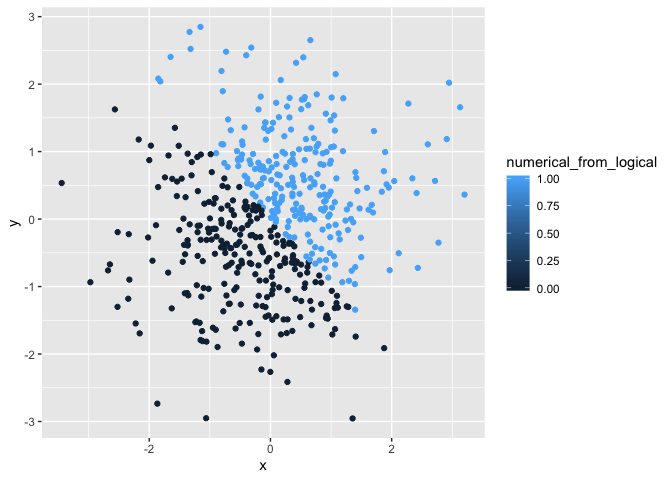
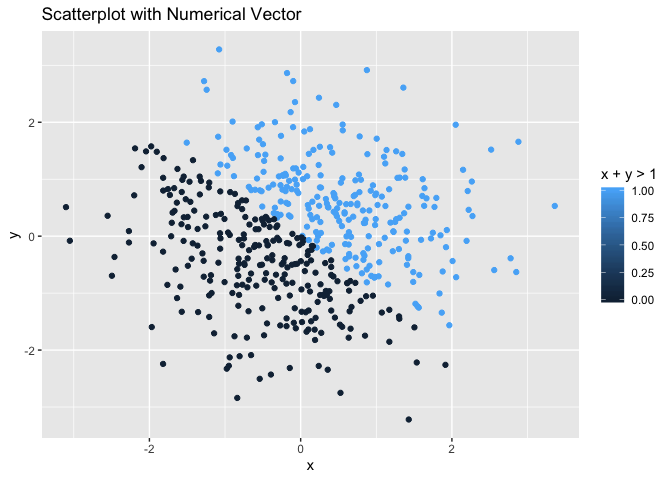
Added titles and legend titles to graphs

diff --git a/p8105_hw1_crf2147.md b/p8105_hw1_crf2147.md
@@ -36,7 +36,7 @@ data_frame_p1 = tibble(
 mean(pull(data_frame_p1, normal_sample))
 ```
 
-    ## [1] 0.2260761
+    ## [1] -0.1346382
 
 ``` r
 #mean of logical vector
@@ -98,8 +98,8 @@ as.numeric(pull(data_frame_p1, (normal_sample_positive))) *
   pull(data_frame_p1, (normal_sample))
 ```
 
-    ## [1] 0.0000000 1.1105844 1.1637735 0.0000000 0.0000000 0.5472452 0.0000000
-    ## [8] 0.3402442
+    ## [1] 0.9990630 0.0000000 0.0000000 0.0000000 0.3692615 0.0000000 0.3125544
+    ## [8] 2.1594690
 
 ``` r
 #logical vector to factor, then multipled
@@ -118,8 +118,8 @@ as.numeric(factor(pull(data_frame_p1, (normal_sample_positive)))) *
   pull(data_frame_p1, (normal_sample))
 ```
 
-    ## [1] -0.3442304  2.2211687  2.3275469 -0.5168023 -0.2375860  1.0944904
-    ## [7] -0.2546194  0.6804883
+    ## [1]  1.9981261 -1.7659863 -0.5182822 -0.4014881  0.7385230 -2.2316973
+    ## [7]  0.6251088  4.3189380
 
 \#Problem 2
 
@@ -136,12 +136,15 @@ data_frame_p2 = tibble(
 
 The size of the data set is 500 by 5.
 
-For variable `x` the mean is -0.0019934, median is 0.0204366, and
-standard deviation is 1.0160278. `x + y > 1` is true for 49.4% of cases.
+For variable `x` the mean is 0.0011368, median is 0.0090375, and
+standard deviation is 1.049015. `x + y > 1` is true for 49.4% of cases.
 
 ``` r
 #scatterplot of x vs y with logical vector colored
-ggplot(data_frame_p2, aes(x = x, y = y, color= logical_vector)) + geom_point()
+ggplot(data_frame_p2, aes(x = x, y = y, color= logical_vector)) + 
+  geom_point() +
+  ggtitle("Scatterplot with Logical Vector") +
+  labs(color= "x + y > 1")
 ```
 
 ![](p8105_hw1_crf2147_files/figure-gfm/unnamed-chunk-6-1.png)<!-- -->
@@ -155,14 +158,20 @@ ggsave("p8105_hw1_plot.pdf")
 
 ``` r
 #scatterplot of x vs y with numerical vector colored
-ggplot(data_frame_p2, aes(x = x, y = y, color= numerical_from_logical)) + geom_point()
+ggplot(data_frame_p2, aes(x = x, y = y, color= numerical_from_logical)) +
+  geom_point() + 
+  ggtitle("Scatterplot with Numerical Vector") +
+  labs(color= "x + y > 1")
 ```
 
 ![](p8105_hw1_crf2147_files/figure-gfm/unnamed-chunk-6-2.png)<!-- -->
 
 ``` r
 #scatterplot of x vs y with factor vector colored
-ggplot(data_frame_p2, aes(x = x, y = y, color= factor_from_logical)) + geom_point()
+ggplot(data_frame_p2, aes(x = x, y = y, color= factor_from_logical)) +
+  geom_point() +
+  ggtitle("Scatterplot with Factor Vector") +
+  labs(color= "x + y > 1")
 ```
 
 ![](p8105_hw1_crf2147_files/figure-gfm/unnamed-chunk-6-3.png)<!-- -->
